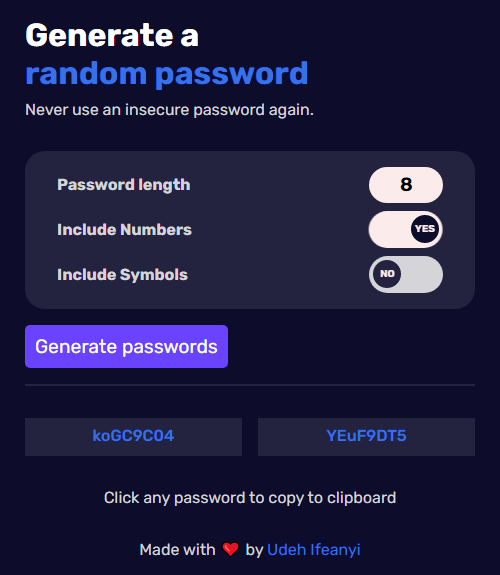
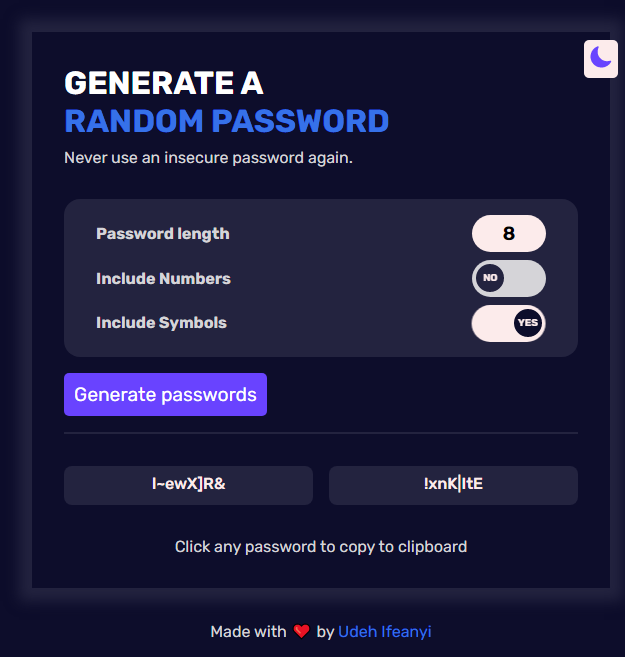
Revised commit

diff --git a/styles.css b/styles.css
@@ -38,7 +38,7 @@ main{
     width: 40rem;
     max-width: 90%;
     padding: 2rem;
-    margin: auto;
+    margin: 2rem auto;
     box-shadow: 0 0 0.8rem 0.8rem var(--clr-dark-2);
 }
 
@@ -266,8 +266,9 @@ hr{
 
 /* Footer  */
 footer{
-    margin-inline: auto;
+    margin: 0 auto 1rem;
 }
+
 footer a{
     text-decoration: none;
     color: var(--clr-blue);
@@ -345,10 +346,10 @@ body.light-mode .psContainer *{
 
 
 /* Mobile Screen  */
-@media (max-width: 37em) {
+@media (max-width: 40em) {
     main{
-        width: 30rem;
-        max-width: 950%;
+        width: 26rem;
+        max-width: 95%;
     }
     .psContainer{
         display: flex;

diff --git a/README.md b/README.md
@@ -26,6 +26,7 @@ This is a solution to the [Scrimba Password Generator Solo Project](https://scri
 ### Screenshot
 
 ![](./screenshots/screenshot1.png)
+![](./screenshots/screenshot2.png)
 
 ### Links
 
